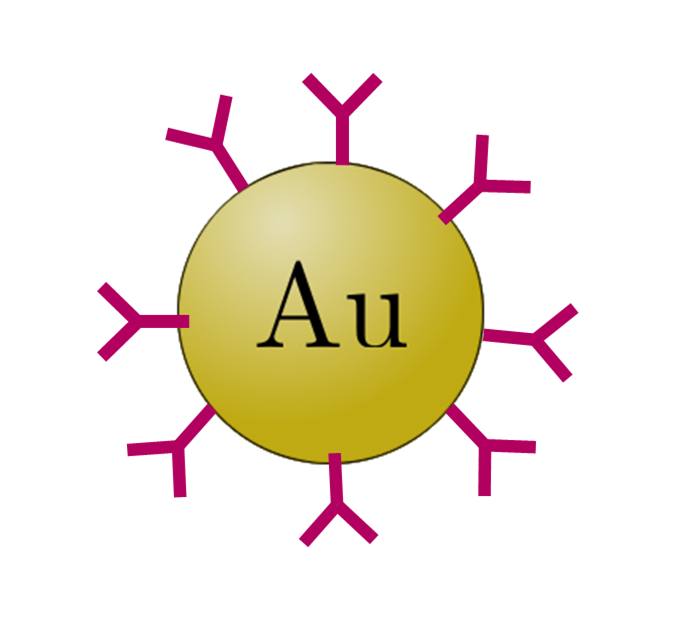
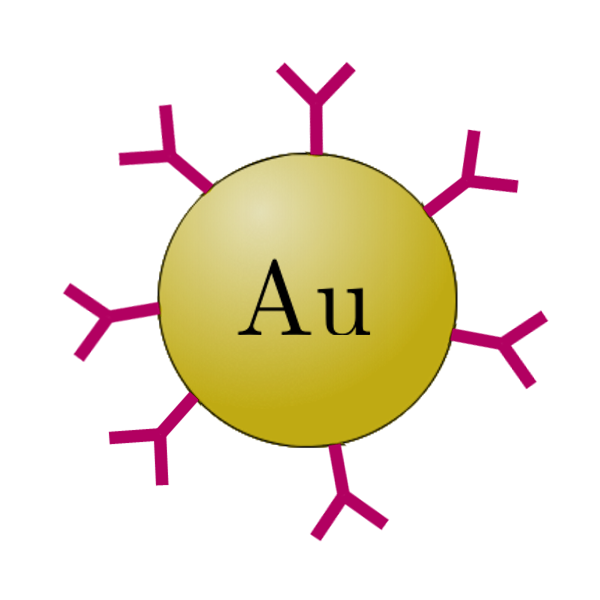
presentatie

Changed region(s): [[0.09, 0.09, 0.93, 0.9], [0.36, 0.42, 0.63, 0.57]]

diff --git a/Presentatie/main.tex b/Presentatie/main.tex
@@ -90,8 +90,8 @@ As. Bert De Roo, Matthias Vervaele, Stephanie Ser\'e
 
 	\column{.6\textwidth}
 	\Huge
-	Radiosensitization
-	using gold nanoparticles\\
+	\textbf{Radiosensitization}
+	\textbf{using gold nanoparticles}\\
 	\vspace{.3cm}
 	\footnotesize{$25^{\text{th}}$ March}
    % \titlepage
@@ -200,32 +200,22 @@ As. Bert De Roo, Matthias Vervaele, Stephanie Ser\'e
 	\begin{columns}
 	\column{0.5\textwidth}
 	\centering
-	\begin{description}
-
-	\item \textbf{Passive targeting} 
-
-	\item PEG coating
-	\end{description}
-				\begin{figure}[tb]
-    			\centering
-    			\includegraphics[width=5cm]{gfx/ptargeting.png}
+	\textbf{Passive targeting} \\
+	 PEG coating
+		\begin{figure}[tb]
+    		\centering
+    			\includegraphics[width=0.8\textwidth]{gfx/ptargeting.png}
     			\label{fig:ptargeting}
-			\end{figure}
+		\end{figure}
 	\column{0.5\textwidth}
-	\begin{description}
-
-	\item \textbf{Active targeting} 
-
-	\item Antibodies
-	\end{description}
-
-	
-					\begin{figure}[tb]
+	\centering
+	 \textbf{Active targeting} \\
+	 Antibodies
+	\begin{figure}[tb]
     			\centering
-    			\includegraphics[width=5cm]{gfx/atargeting.png}
+    			\includegraphics[width=0.8\textwidth]{gfx/atargeting.png}
     			\label{fig:atargeting}
 			\end{figure}
-	\column{0.4\textwidth}
 	\end{columns}
 
 	\end{frame}
@@ -244,7 +234,7 @@ As. Bert De Roo, Matthias Vervaele, Stephanie Ser\'e
 	\column{.5\textwidth}
 \begin{figure}[tb]
     			\centering
-    			\includegraphics[width=5cm]{gfx/gel.png}
+    			\includegraphics[width=5cm]{gfx/gel2.png}
     			\label{fig:gel}
 			\end{figure}
 	\end{columns}
@@ -312,47 +302,8 @@ As. Bert De Roo, Matthias Vervaele, Stephanie Ser\'e
 		\column{.15\textwidth}
 		\end{columns}
 \end{frame}
-\begin{frame}{UV-Vis spectroscopy}
-
-	\begin{figure}[tb]
-    	\centering
-    	\includegraphics[width=0.8\textwidth]{gfx/uvvis.png}
-    \end{figure}
-\end{frame}
-
-\begin{frame}{GNPs of different sizes}
-\begin{figure}[tb]
-            		\centering
-            		\includegraphics[width=12cm]{gfx/vis1.png}
-        		\end{figure}
-\end{frame}
-
-\begin{frame}{15nm GNPs with 20k PEG for different $\frac{V_{GNP}}{V_{PEG}}$}
-      	\begin{overprint}
-    		\only<1>{
-        		\begin{figure}[tb]
-            		\centering
-            		\includegraphics[width=12cm]{gfx/vis22.png}
-        		\end{figure}
-       	 	}
-        	\pause
-    		\only<2>{
-        		\begin{figure}[tb] 
-            		\centering
-            		\includegraphics[width=12cm]{gfx/vis33.png}
-        		\end{figure}
-        	}
-        	\pause
-    		\only<3>{
-        		\begin{figure}[tb]
-            		\centering
-            		\includegraphics[width=12cm]{gfx/vis44.png}
-        		\end{figure}   
-        	}
 
 
-			\end{overprint}
-\end{frame}
 
 
 %------------------------------------------------
@@ -421,8 +372,46 @@ As. Bert De Roo, Matthias Vervaele, Stephanie Ser\'e
     		\includegraphics[width=0.8\textwidth]{gfx/GNPPEG}
     	\end{figure}
     \end{columns}
+\end{frame}
+\begin{frame}{UV-Vis spectroscopy}
+
+	\begin{figure}[tb]
+    	\centering
+    	\includegraphics[width=0.8\textwidth]{gfx/uvvis.png}
+    \end{figure}
+\end{frame}
+
+\begin{frame}{GNPs of different sizes}
+\begin{figure}[tb]
+            		\centering
+            		\includegraphics[width=12cm]{gfx/vis1.png}
+        		\end{figure}
+\end{frame}
+\begin{frame}{15nm GNPs with 20k PEG for different $\frac{V_{GNP}}{V_{PEG}}$}
+      	\begin{overprint}
+    		\only<1>{
+        		\begin{figure}[tb]
+            		\centering
+            		\includegraphics[width=12cm]{gfx/vis22.png}
+        		\end{figure}
+       	 	}
+        	\pause
+    		\only<2>{
+        		\begin{figure}[tb] 
+            		\centering
+            		\includegraphics[width=12cm]{gfx/vis33.png}
+        		\end{figure}
+        	}
+        	\pause
+    		\only<3>{
+        		\begin{figure}[tb]
+            		\centering
+            		\includegraphics[width=12cm]{gfx/vis44.png}
+        		\end{figure}   
+        	}
 
 
+			\end{overprint}
 \end{frame}
 \section{Characterization} % (fold)
 \begin{frame}[t]\frametitle{Overzicht}
